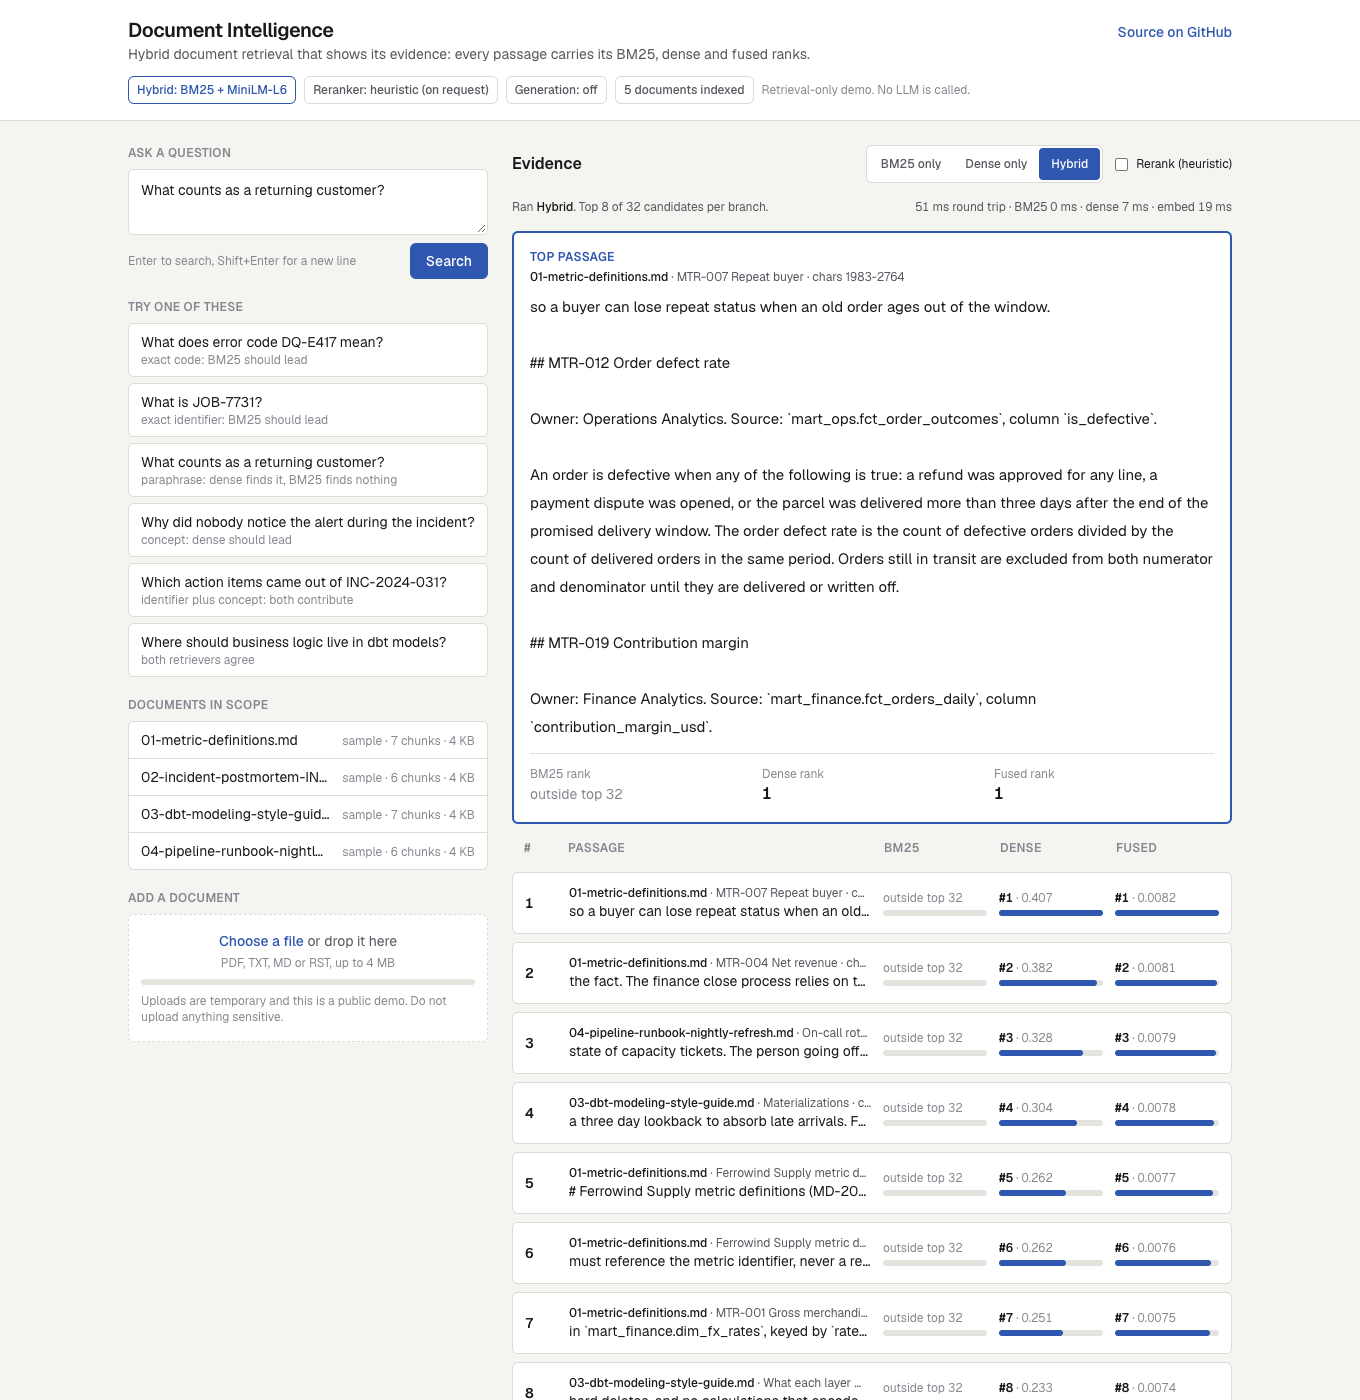
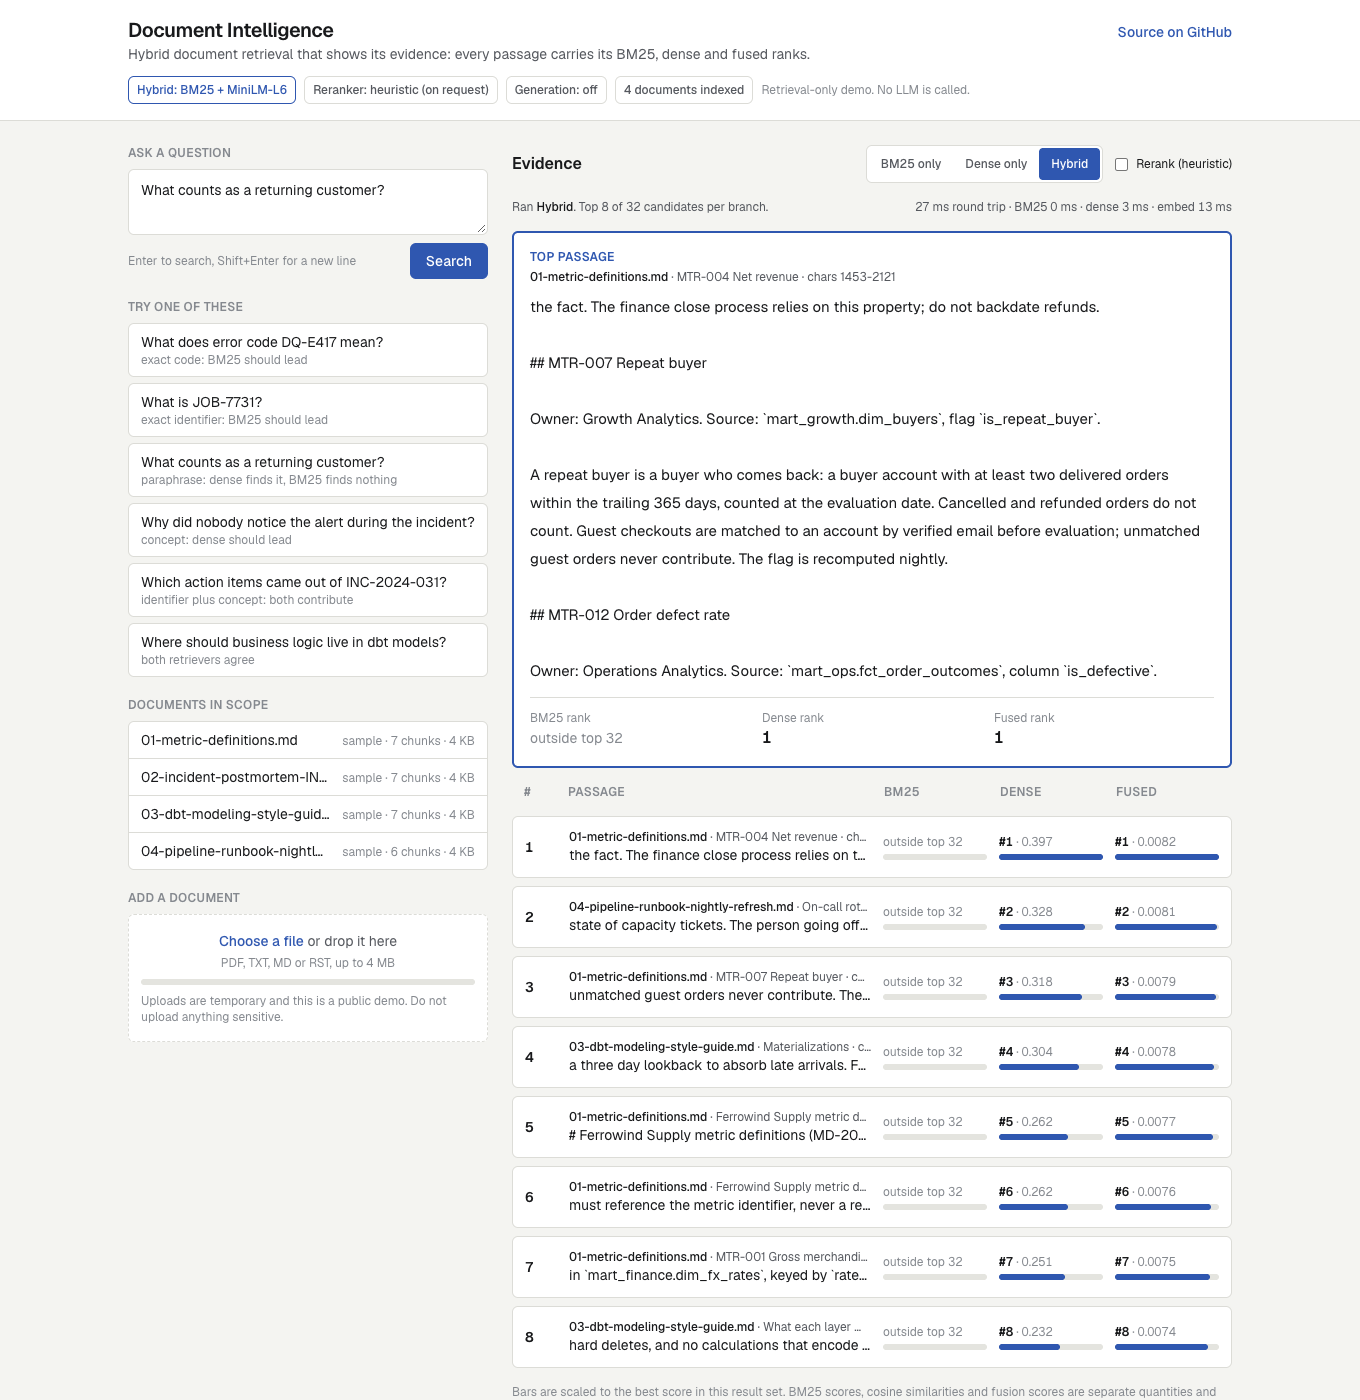
docs: update the case study and README for the live demo
Case study: fastembed as a credential-free dense provider, stopword
removal in the lexical description, fusion_rank and candidate_k in the
retrieval section, eviction in the ingestion sequence, two verification
map rows for the demo controls and demo safety tests, a short "Public
demo" section (retrieval-only, seeding and protected samples, document
cap with eviction, rate limits and the forwarded-IP trust rule, upload
isolation by document ids), rate limiting in the boundaries, and a
pointer to make demo-api in the walkthrough. No numbers or performance
claims.

README: live demo link. Screenshots regenerated from the production
build against the tightened sample corpus, so they match the deployed
page after the next deploy.

Changed region(s): [[0.3706, 0.3379, 0.8956, 1.0], [0.4015, 0.1843, 0.8338, 0.3071], [0.8029, 0.4607, 0.8338, 0.4914]]

diff --git a/docs/ENGINEERING_CASE_STUDY.md b/docs/ENGINEERING_CASE_STUDY.md
@@ -13,9 +13,11 @@ resulting chunks, restrict a query to selected documents, and remove documents
 from every application-controlled store.
 
 The default path is deliberately credential-free. BM25 retrieval and evidence
-excerpts work without model downloads or provider keys. Dense retrieval,
-cross-encoder or LLM reranking, and generated answers are configuration-dependent
-capabilities and are not exercised by the default offline evaluation.
+excerpts work without model downloads or provider keys. Dense retrieval
+(OpenAI, sentence-transformers, or the credential-free `fastembed` ONNX
+provider that the public demo uses), cross-encoder or LLM reranking, and
+generated answers are configuration-dependent capabilities; the default
+offline evaluation exercises none of them.
 
 The design prioritizes these invariants:
 
@@ -36,7 +38,8 @@ and version metadata.
 ### Ingestion
 
 ```text
-bounded upload -> validate and extract -> chunk with source locations
+optional eviction when a document cap is configured -> bounded upload
+  -> validate and extract -> chunk with source locations
   -> manifest status=indexing -> optional vector write and verification
   -> manifest status=ready -> rebuild BM25 -> bump corpus generation
   -> clear answer cache
@@ -81,11 +84,17 @@ from the manifest and discards candidates that are missing, out of scope,
 non-ready, or not from the document's current version. This hydration step is a
 second defense against stale index entries.
 
-BM25 is always available. Requested hybrid retrieval falls back transparently
+BM25 is always available. It removes a short English stopword list from
+documents and queries, so a question made only of function words returns no
+lexical candidates instead of feeding noise into fusion. Requested hybrid
+retrieval falls back transparently
 to lexical retrieval when no embedding provider is configured and reports the
 effective mode. Vector-only retrieval instead returns a capability error.
 Hybrid mode uses reciprocal-rank fusion because lexical scores and cosine
-distance do not share a meaningful numeric scale.
+distance do not share a meaningful numeric scale. Each hit reports its lexical
+rank, vector rank, `fusion_rank` (position after fusion, before any
+reranking), and final rank separately, and the response reports
+`candidate_k`, the number of candidates requested from each branch.
 
 Answer context is assembled in rank order under a character budget and labels
 evidence `[S1]` through `[Sn]`. Generation is optional: without a provider the
@@ -118,6 +127,8 @@ it does not prove that every generated claim is entailed by its cited passage.
 | Request and response contracts | `src/api/schemas.py`, `src/api/endpoints.py` | `tests/test_api.py` |
 | Offline retrieval metrics and scenarios | `eval/retrieval_metrics.py`, `eval/run_eval.py` | `tests/test_eval_metrics.py`, sample-corpus evaluation |
 | Publication content policy | `scripts/check_publication.py` | `tests/test_publication.py`, CI publication check |
+| Public-demo controls: seeding, document cap and eviction, rate limits | `src/rag/service.py`, `src/api/ratelimit.py`, `src/api/main.py` | `tests/test_demo_controls.py` |
+| Demo configuration cannot reach a paid provider | `deploy/space/demo.env`, `src/core/embeddings.py` | `tests/test_demo_safety.py` (fastembed double, sockets blocked) |
 
 Failure-path tests cover staged-ingestion rollback, replacement failures,
 retryable deletion, stale candidates, empty and invalid scopes, unavailable or
@@ -161,6 +172,27 @@ pytest tests/test_lifecycle.py -q
 pytest tests/test_retrieval_generation.py -q
 ```
 
+`make demo-api` runs the same server in the public demo's configuration
+(hybrid retrieval with the ONNX model) once `init_models.py --fastembed` has
+prepared the model files.
+
+## Public demo
+
+The hosted demo at https://frontend-doc-intel.vercel.app is retrieval-only:
+`GENERATION_PROVIDER=none`, no provider SDK in the image, and
+`tests/test_demo_safety.py` proves no paid provider can be resolved even with
+a key in the environment. Dense retrieval uses the `fastembed` ONNX provider
+with model files downloaded at image build time. The API seeds
+`data/samples/` at startup and protects those documents from eviction;
+uploads count against a document cap and the oldest unprotected document is
+evicted first. Per-client and global sliding-window rate limits apply on
+`/api` routes; the forwarded client-IP header is trusted only on requests
+that carry the valid API key, so the frontend proxy's visitors are limited
+individually while anonymous callers share the socket-address bucket. The
+frontend keeps the ids it uploaded in browser session storage and scopes
+every search and listing to the seeded documents plus those ids; this is a
+convenience filter over one shared corpus, not tenant isolation.
+
 ## Evaluation procedure and measurement scope
 
 `python -m eval.run_eval --embedding none` ingests the small fictional sample
@@ -180,7 +212,8 @@ entailment labels, and separately reported operational measurements.
 
 Current operation is one process serving one corpus. BM25 is in memory, so
 multi-worker serving is unsupported; authentication is one optional shared API
-key, not tenant isolation. PDF ingestion requires a text layer. Citation checks
+key, not tenant isolation, and rate limiting is in-process state. PDF
+ingestion requires a text layer. Citation checks
 validate labels rather than factual entailment. Provider-side retention and
 external backups are outside application-controlled deletion.
 
@@ -202,7 +235,9 @@ implemented and verified:
 
 **Why retain lexical retrieval?** It is deterministic, credential-free, and
 effective for exact identifiers and policy terms. Dense retrieval is optional
-and useful for semantic similarity; hybrid mode combines their ranks.
+and useful for semantic similarity; hybrid mode combines their ranks. The
+demo's example questions show the split: exact identifiers favour BM25 and
+paraphrases of a document's wording favour the dense retriever.
 
 **Why can stale vectors not become answers?** Scope is applied during candidate
 generation and candidates are hydrated against ready, current manifest state.

diff --git a/README.md b/README.md
@@ -11,7 +11,7 @@ with a public demo that shows exactly why each passage was retrieved.
 > guarantees, scoped retrieval, implementation evidence, evaluation boundaries,
 > and a credential-free local walkthrough of the API.
 
-**Live demo:** _link added after the first Vercel deploy_ ·
+**Live demo:** [frontend-doc-intel.vercel.app](https://frontend-doc-intel.vercel.app) ·
 **API:** [huggingface.co/spaces/cbratkovics/document-intelligence-ai](https://huggingface.co/spaces/cbratkovics/document-intelligence-ai)
 
 ![Evidence view: the top passage with matched terms highlighted, then every retrieved chunk with its BM25, dense and fused rank side by side](docs/images/demo-hybrid.png)
